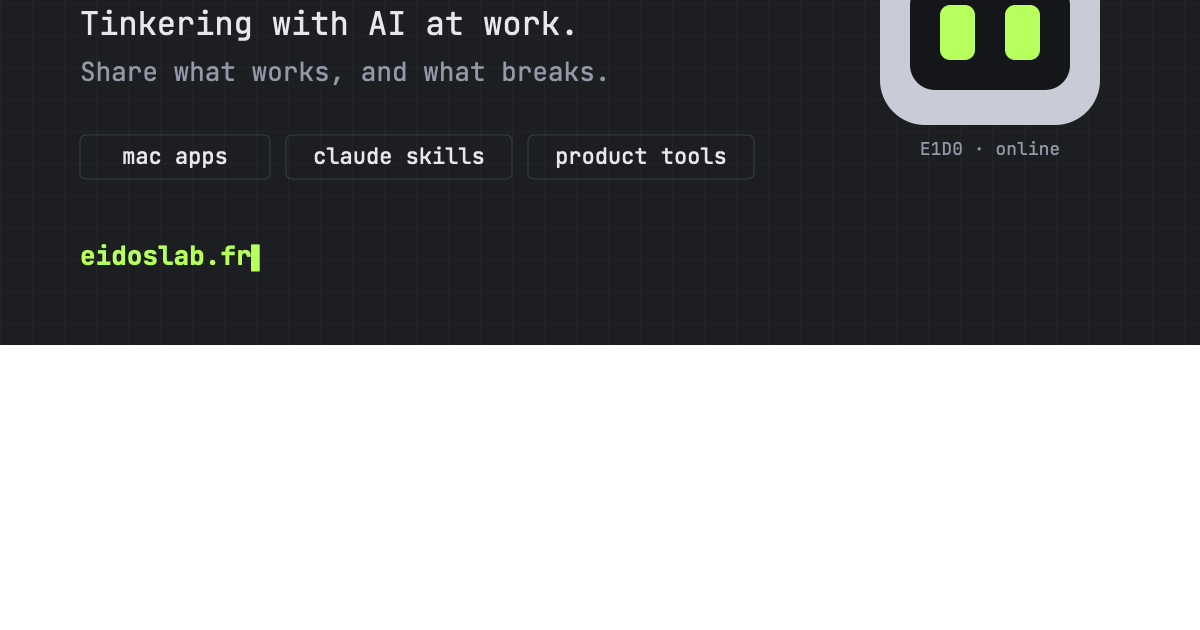
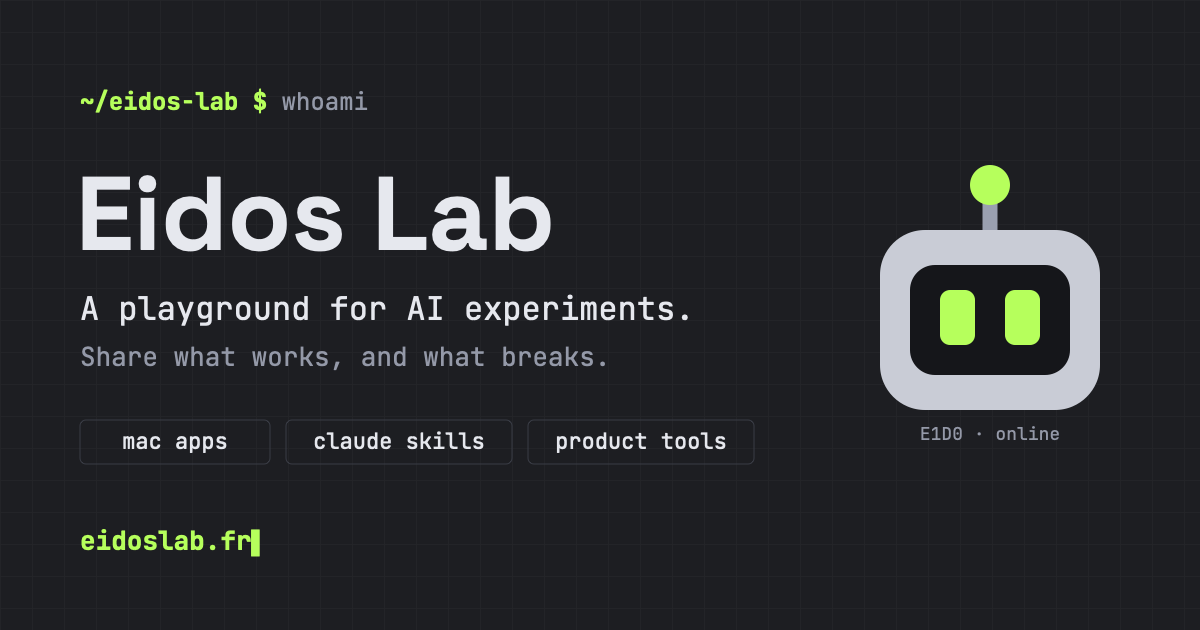
feat: nouveau slogan « A playground for AI experiments » (FR/EN/ES) et image d'aperçu recadrée

diff --git a/assets/js/i18n.js b/assets/js/i18n.js
@@ -3,11 +3,11 @@
   var E = window.EIDOS;
   var S = {
     fr: {
-      'meta.title': "Eidos Lab — on bricole l'IA en entreprise",
+      'meta.title': "Eidos Lab — un terrain de jeu pour expérimenter avec l'IA",
       'a11y.skip': 'Aller au contenu',
       'nav.lab': 'labo', 'nav.projects': 'projets', 'nav.log': 'journal', 'nav.missions': 'missions', 'nav.about': 'à propos', 'nav.contact': 'contact',
       'nav.lang': 'Langue', 'nav.theme': 'Changer de thème', 'nav.term.title': 'Ouvrir le terminal ( / )',
-      'hero.typed': "> on bricole l'IA en entreprise, et on partage ce qui marche (et ce qui casse)",
+      'hero.typed': "> un terrain de jeu pour expérimenter avec l'IA, et partager ce qui marche (et ce qui casse)",
       'hero.lead': "Un petit labo où l'on prototype avec l'IA, où l'on évalue les outils pour de vrai, et où tout ce qui tient debout finit publié.",
       'hero.cta.lab': 'explorer le labo', 'hero.cta.projects': 'voir les projets', 'hero.cta.term': 'ouvrir le terminal',
       'boot.1': '[boot] eidos-lab v2 ............ ', 'boot.2': '[load] {n} projets indexés ....... ', 'boot.3': '[wake] robot E1D0 .............. ', 'boot.4': '[scan] bugs trouvés : 0. Suspect.',
@@ -65,11 +65,11 @@
       'sh.whoami': 'visitor — invité du labo, droits : lecture, curiosité.', 'sh.lang': 'usage : lang fr|en|es', 'sh.theme': 'usage : theme dark|light', 'sh.bot': 'usage : bot wave|dance|jump|spin|scan <projet>|sleep|wake|say <texte>', 'sh.ok': 'ok.'
     },
     en: {
-      'meta.title': 'Eidos Lab — tinkering with AI at work',
+      'meta.title': 'Eidos Lab — a playground for AI experiments',
       'a11y.skip': 'Skip to content',
       'nav.lab': 'lab', 'nav.projects': 'projects', 'nav.log': 'log', 'nav.missions': 'missions', 'nav.about': 'about', 'nav.contact': 'contact',
       'nav.lang': 'Language', 'nav.theme': 'Switch theme', 'nav.term.title': 'Open the terminal ( / )',
-      'hero.typed': '> we tinker with AI at work, and share what works (and what breaks)',
+      'hero.typed': '> a playground for AI experiments, sharing what works (and what breaks)',
       'hero.lead': 'A small lab where we prototype with AI, test the tools for real, and publish whatever still stands at the end.',
       'hero.cta.lab': 'explore the lab', 'hero.cta.projects': 'see the projects', 'hero.cta.term': 'open the terminal',
       'boot.1': '[boot] eidos-lab v2 ............ ', 'boot.2': '[load] {n} projects indexed ..... ', 'boot.3': '[wake] robot E1D0 .............. ', 'boot.4': '[scan] bugs found: 0. Suspicious.',
@@ -127,11 +127,11 @@
       'sh.whoami': 'visitor — lab guest, permissions: read, curiosity.', 'sh.lang': 'usage: lang fr|en|es', 'sh.theme': 'usage: theme dark|light', 'sh.bot': 'usage: bot wave|dance|jump|spin|scan <project>|sleep|wake|say <text>', 'sh.ok': 'ok.'
     },
     es: {
-      'meta.title': 'Eidos Lab — trasteando con la IA en la empresa',
+      'meta.title': 'Eidos Lab — un terreno de juego para experimentar con la IA',
       'a11y.skip': 'Ir al contenido',
       'nav.lab': 'labo', 'nav.projects': 'proyectos', 'nav.log': 'diario', 'nav.missions': 'misiones', 'nav.about': 'acerca de', 'nav.contact': 'contacto',
       'nav.lang': 'Idioma', 'nav.theme': 'Cambiar de tema', 'nav.term.title': 'Abrir el terminal ( / )',
-      'hero.typed': '> trasteamos con la IA en la empresa y compartimos lo que funciona (y lo que se rompe)',
+      'hero.typed': '> un terreno de juego para experimentar con la IA, compartiendo lo que funciona (y lo que se rompe)',
       'hero.lead': 'Un pequeño laboratorio donde se prototipa con IA, se prueban las herramientas de verdad y se publica todo lo que aguanta en pie.',
       'hero.cta.lab': 'explorar el labo', 'hero.cta.projects': 'ver los proyectos', 'hero.cta.term': 'abrir el terminal',
       'boot.1': '[boot] eidos-lab v2 ............ ', 'boot.2': '[load] {n} proyectos indexados .. ', 'boot.3': '[wake] robot E1D0 .............. ', 'boot.4': '[scan] bugs encontrados: 0. Sospechoso.',

diff --git a/index.html b/index.html
@@ -3,26 +3,26 @@
 <head>
 <meta charset="utf-8">
 <meta name="viewport" content="width=device-width, initial-scale=1">
-<title>Eidos Lab — on bricole l'IA en entreprise</title>
+<title>Eidos Lab — un terrain de jeu pour expérimenter avec l'IA</title>
 <meta name="description" content="Eidos Lab : un labo où l'on prototype avec l'IA, où l'on évalue les outils et où l'on publie ce qui marche. Produits, apps Mac, skills Claude et outils open source.">
 <meta name="theme-color" content="#1d1e22">
 <link rel="canonical" href="https://eidoslab.fr/">
 <meta property="og:type" content="website">
 <meta property="og:url" content="https://eidoslab.fr/">
-<meta property="og:title" content="Eidos Lab — tinkering with AI at work">
-<meta property="og:description" content="A small lab tinkering with AI at work: prototypes, real-world tool tests, and 30+ open source projects (Mac apps, Claude skills, product tools).">
+<meta property="og:title" content="Eidos Lab — a playground for AI experiments">
+<meta property="og:description" content="A playground for AI experiments: prototypes, tools tested for real, and 30+ open source projects (Mac apps, Claude skills, product tools).">
 <meta property="og:site_name" content="Eidos Lab">
 <meta property="og:locale" content="en_US">
 <meta property="og:locale:alternate" content="fr_FR">
 <meta property="og:locale:alternate" content="es_ES">
-<meta property="og:image" content="https://eidoslab.fr/assets/img/og-image.png">
+<meta property="og:image" content="https://eidoslab.fr/assets/img/og-image.png?v=2">
 <meta property="og:image:width" content="1200">
 <meta property="og:image:height" content="630">
-<meta property="og:image:alt" content="Eidos Lab: tinkering with AI at work. The lab robot E1D0 next to the site name.">
+<meta property="og:image:alt" content="Eidos Lab: a playground for AI experiments. The lab robot E1D0 next to the site name.">
 <meta name="twitter:card" content="summary_large_image">
-<meta name="twitter:title" content="Eidos Lab — tinkering with AI at work">
-<meta name="twitter:description" content="A small lab tinkering with AI at work: prototypes, real-world tool tests, and 30+ open source projects (Mac apps, Claude skills, product tools).">
-<meta name="twitter:image" content="https://eidoslab.fr/assets/img/og-image.png">
+<meta name="twitter:title" content="Eidos Lab — a playground for AI experiments">
+<meta name="twitter:description" content="A playground for AI experiments: prototypes, tools tested for real, and 30+ open source projects (Mac apps, Claude skills, product tools).">
+<meta name="twitter:image" content="https://eidoslab.fr/assets/img/og-image.png?v=2">
 <link rel="icon" href="favicon.svg" type="image/svg+xml">
 <link rel="preload" href="assets/fonts/jetbrains-mono-latin-400-normal.woff2" as="font" type="font/woff2" crossorigin>
 <link rel="stylesheet" href="assets/css/site.css?v=2">

diff --git a/projets.html b/projets.html
@@ -10,19 +10,19 @@
 <meta property="og:type" content="website">
 <meta property="og:url" content="https://eidoslab.fr/projets">
 <meta property="og:title" content="All projects — Eidos Lab">
-<meta property="og:description" content="A small lab tinkering with AI at work: prototypes, real-world tool tests, and 30+ open source projects (Mac apps, Claude skills, product tools).">
+<meta property="og:description" content="A playground for AI experiments: prototypes, tools tested for real, and 30+ open source projects (Mac apps, Claude skills, product tools).">
 <meta property="og:site_name" content="Eidos Lab">
 <meta property="og:locale" content="en_US">
 <meta property="og:locale:alternate" content="fr_FR">
 <meta property="og:locale:alternate" content="es_ES">
-<meta property="og:image" content="https://eidoslab.fr/assets/img/og-image.png">
+<meta property="og:image" content="https://eidoslab.fr/assets/img/og-image.png?v=2">
 <meta property="og:image:width" content="1200">
 <meta property="og:image:height" content="630">
-<meta property="og:image:alt" content="Eidos Lab: tinkering with AI at work. The lab robot E1D0 next to the site name.">
+<meta property="og:image:alt" content="Eidos Lab: a playground for AI experiments. The lab robot E1D0 next to the site name.">
 <meta name="twitter:card" content="summary_large_image">
 <meta name="twitter:title" content="All projects — Eidos Lab">
-<meta name="twitter:description" content="A small lab tinkering with AI at work: prototypes, real-world tool tests, and 30+ open source projects (Mac apps, Claude skills, product tools).">
-<meta name="twitter:image" content="https://eidoslab.fr/assets/img/og-image.png">
+<meta name="twitter:description" content="A playground for AI experiments: prototypes, tools tested for real, and 30+ open source projects (Mac apps, Claude skills, product tools).">
+<meta name="twitter:image" content="https://eidoslab.fr/assets/img/og-image.png?v=2">
 <link rel="icon" href="favicon.svg" type="image/svg+xml">
 <link rel="preload" href="assets/fonts/jetbrains-mono-latin-400-normal.woff2" as="font" type="font/woff2" crossorigin>
 <link rel="stylesheet" href="assets/css/site.css?v=2">
